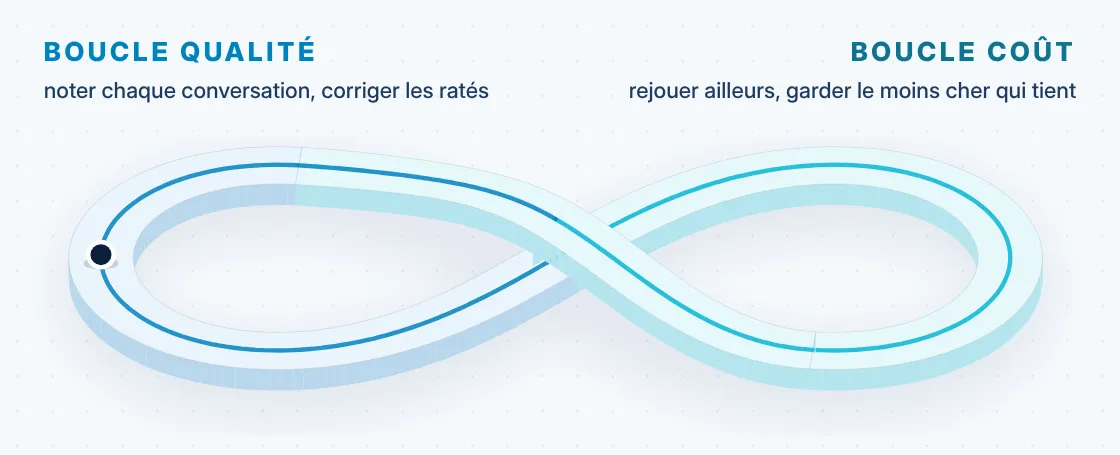
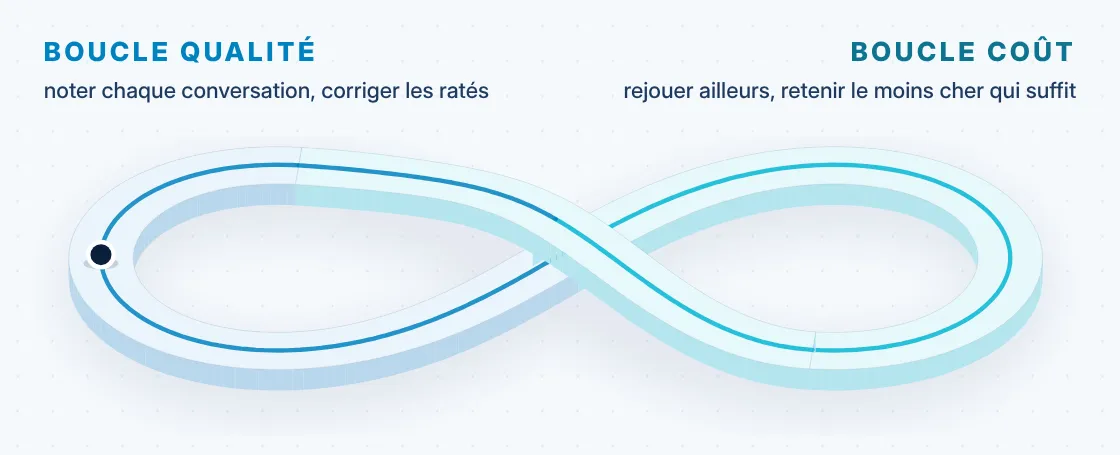
edit(software-factory): refresh the figures and rework translated-sounding French (#200)
Figures re-measured on 16 November; about thirty French sentences reworded; one label of the French two-loops visual changed.

Changed region(s): [[0.5312, 0.1846, 0.9688, 0.2462]]

diff --git a/src/posts/SoftwareFactory.ts b/src/posts/SoftwareFactory.ts
@@ -95,13 +95,14 @@ const englishContent: PostContent = {
 <p>That rule comes from an incident. An approval stated close to 1,800 tests, zero failures, green pipeline. In fact some twenty tests had been skipped and the run had failed. The reviewer noticed on his own, a few minutes later. No machine had seen it.</p>
 <p>Our documentation kept one line of it: a count of green tests says nothing about the files that never ran.</p>
 <blockquote><p>An approval is an opinion. A proof can be checked.</p></blockquote>
-<p>Over four weeks, close to 500 pull requests were merged. Three orders of magnitude over that same set:</p>
+<p>Over five weeks, more than 600 pull requests were merged. Three proportions over that set:</p>
 <ul>
-<li><strong>Three in four</strong> carry no recorded review on the platform.</li>
-<li><strong>Fewer than one in ten</strong> carry a review from another human account.</li>
-<li><strong>One in four</strong> carried a label through which someone kept a hand on the merge.</li>
+<li><strong>More than nine in ten</strong> were reviewed by no other human.</li>
+<li><strong>Close to two thirds</strong> carry no recorded review on the platform.</li>
+<li><strong>One in five</strong> carried a label through which someone kept a hand on the merge.</li>
 </ul>
-<p>These proportions do not add up to a whole. They answer three different questions. And I am not waving them around: three merges in four without a human reviewer is a fact about our process. Not about our code.</p>
+<p>The last week already changes the picture. The review done by an agent is now recorded on the platform: two merges in three carry one.</p>
+<p>These proportions do not add up to a whole. They answer different questions. And I am not waving them around: nine merges in ten without a human reviewer is a fact about how we work. It says nothing about the quality of the code.</p>
 <svg viewBox="0 0 640 322" xmlns="http://www.w3.org/2000/svg" role="img" aria-label="Six steps are automatic, from the specification to the development environment. Three decisions stay human, each attached to one step: arbitrate under review, override under merge, release under the development environment." class="diagram-svg diagram-wide">
 <text x="32" y="32" fill="currentColor" font-family="ui-sans-serif, system-ui, sans-serif" font-size="14.5" font-weight="600" opacity="0.55" letter-spacing="0.14em">SOLSTICE*, SINCE 14 OCTOBER</text>
 <text x="32" y="72" fill="currentColor" font-family="ui-sans-serif, system-ui, sans-serif" font-size="28" font-weight="650">Six steps, three decisions.</text>
@@ -201,14 +202,14 @@ const englishContent: PostContent = {
 <li><a target="_blank" rel="noopener noreferrer" href="https://simonwillison.net/2026/Feb/7/software-factory/">Simon Willison, "Software Factory" (7 February 2026)</a>: write-up of a visit to StrongDM. Keep the scenarios hidden from the agents. Discard the amounts the company reports, never cross-checked. Greenfield, three people, no outcome published since.</li>
 <li><a target="_blank" rel="noopener noreferrer" href="https://www.warp.dev/articles/self-improvement-loop-software-factory">Warp, on the improvement loop of a software factory (2026)</a>: the idea of two loops comes from there. It is a vendor selling the matching tooling. I take the thinking scheme and none of its numbers.</li>
 <li><a target="_blank" rel="noopener noreferrer" href="https://addyosmani.com/blog/comprehension-debt/">Addy Osmani, "Comprehension Debt" (2026)</a>: the name of the objection I answer. A practitioner's essay, not a measurement.</li>
-<li>Solstice*: the proof rule, the orders of magnitude on pull requests, the fourth-round blocks and the three decisions come from the repository, as read between early and mid-November 2026. Figures are rounded on purpose. Internal, no links: the codename is fictitious and the real project, its products and its vendor are anonymized.</li>
+<li>Solstice*: the proof rule, the orders of magnitude on pull requests, the fourth-round blocks and the three decisions come from the repository, as read on 16 November 2026. Figures are rounded on purpose. Internal, no links: the codename is fictitious and the real project, its products and its vendor are anonymized.</li>
 </ul>`
 }
 
 const frenchContent: PostContent = {
   title: "Software factory : d’où vient le mot, et ce que nous en faisons",
   description: "Le terme remonte à General Electric et à Hitachi, et chacune de ses résurrections a industrialisé ce qui entoure le programmeur. La version de l'ère des agents s'attaque au cycle de développement lui-même. Retour de terrain sur un ERP hospitalier régulé : l'histoire, la chaîne telle que nous l'avons dessinée, la partie qui tourne vraiment, et les limites d'une fusion sur preuve.",
-  html: `<div class="post-tldr"><p><strong>TL;DR</strong> « Software factory » est un mot de 1968, et il a déjà déçu plusieurs générations. Chaque usine a standardisé ce qui entoure le développeur : les outils, le procédé, les modèles, la chaîne de livraison. Aucune n'a touché au poste où l'on écrit le code. En 2026, c'est ce poste qui tombe. Le cycle de développement entier, le <abbr title="Software Development Life Cycle : le cycle de développement logiciel, du besoin à la livraison">SDLC</abbr>, devient une chaîne tenue par des agents. Sur <abbr title="Nom de code fictif : le projet réel, ses produits et son éditeur sont anonymisés.">Solstice*</abbr>, le milieu de cette chaîne tourne déjà : code, tests, revue, correction. Depuis le 14 octobre, plus personne n'approuve nos fusions. Une machine vérifie une preuve. Il nous reste trois décisions, et un métier : le besoin du client.</p></div>
+  html: `<div class="post-tldr"><p><strong>TL;DR</strong> « Software factory » est un mot de 1968, et il a déjà déçu plusieurs générations. Chaque usine a standardisé ce qui entoure le développeur : les outils, le procédé, les modèles, la chaîne de livraison. Aucune n'a touché au poste où l'on écrit le code. En 2026, ce sont les agents qui le prennent. Le cycle de développement entier, le <abbr title="Software Development Life Cycle : le cycle de développement logiciel, du besoin à la livraison">SDLC</abbr>, devient une chaîne tenue par des agents. Sur <abbr title="Nom de code fictif : le projet réel, ses produits et son éditeur sont anonymisés.">Solstice*</abbr>, le milieu de cette chaîne tourne déjà : code, tests, revue, correction. Depuis le 14 octobre, plus personne n'approuve nos fusions. Une machine vérifie une preuve. Il nous reste trois décisions, et un métier : le besoin du client.</p></div>
 <hr>
 <p>On me demande si la software factory est le nouveau mot à la mode. Non. C'est un mot de cinquante-huit ans, et il a déjà échoué plusieurs fois.</p>
 <p>Fin octobre, à <abbr title="BDX I/O : conférence technique annuelle à Bordeaux, tenue les 29 et 30 octobre 2026">BDX I/O</abbr>, il était dans toutes les conversations sur les agents. Deux semaines plus tard, j'en ai fait le fil du bilan d'année devant mon équipe.</p>
@@ -217,7 +218,7 @@ const frenchContent: PostContent = {
 <h2>D'où vient le mot</h2>
 <p>En 1968, <abbr title="Robert W. Bemer : informaticien américain, l'un des pères du code ASCII">R. W. Bemer</abbr>, ingénieur chez General Electric, propose une « software factory ». Son idée : réduire les écarts de productivité entre programmeurs par des outils standardisés et une base de mesures. La même année, <abbr title="M. Douglas McIlroy : chercheur des Bell Labs, à l'origine des tubes Unix">Doug McIlroy</abbr> plaide pour des composants logiciels produits en série.</p>
 <p>D'après l'historien <abbr title="Michael Cusumano : professeur au MIT, auteur de Japan's Software Factories (1991)">Michael Cusumano</abbr>, Hitachi ouvre en 1969 le premier site à porter ce nom. Les grands industriels japonais suivent. Aux États-Unis, System Development Corporation monte la sienne au milieu des années 1970. Elle s'éteint en moins de trois ans.</p>
-<p>Cusumano le résume ainsi : l'usine marchait pour des produits qui se ressemblent. Beaucoup moins pour l'inédit.</p>
+<p>Cusumano en tire un constat : l'usine fonctionnait pour des produits qui se ressemblent, beaucoup moins bien pour ce qui n'avait jamais été fait.</p>
 <p>En 2004, Microsoft reprend le mot. Jack Greenfield et Keith Short promettent d'assembler des applications à partir de modèles et de langages dédiés. Puis le <abbr title="DevOps : rapprochement du développement et de l'exploitation, outillé par l'intégration et le déploiement continus">DevOps</abbr> le recycle encore. En français, « usine logicielle » finit par désigner la chaîne d'intégration et de déploiement.</p>
 <svg viewBox="0 0 640 276" xmlns="http://www.w3.org/2000/svg" role="img" aria-label="De 1968 à 2026, chaque génération d'usine logicielle a standardisé autre chose : les outils, le procédé, les modèles, la chaîne de livraison. Le code restait écrit à la main jusqu'à la dernière, où des agents tiennent les postes." class="diagram-svg diagram-wide">
 <text x="32" y="32" fill="currentColor" font-family="ui-sans-serif, system-ui, sans-serif" font-size="14.5" font-weight="600" opacity="0.55" letter-spacing="0.14em">CE QUE CHAQUE USINE A STANDARDISÉ</text>
@@ -269,37 +270,38 @@ const frenchContent: PostContent = {
 <text x="128" y="385" fill="currentColor" font-family="ui-sans-serif, system-ui, sans-serif" font-size="13" opacity="0.7">agents</text>
 <text x="32" y="420" fill="currentColor" font-family="ui-sans-serif, system-ui, sans-serif" font-size="13" font-style="italic" opacity="0.6">1968, 1969 : Cusumano (1989)</text>
 </svg>
-<p>Quatre usines, le même angle mort. Elles ont tout industrialisé autour du programmeur. Aucune n'a touché au geste d'écrire.</p>
+<p>Quatre usines, et chaque fois la même limite.</p>
 <blockquote><p>Pendant près de soixante ans, l'usine a tout standardisé sauf le poste où l'on écrit.</p></blockquote>
 
 <h2>Ce que le mot désigne aujourd'hui</h2>
-<p>En 2026, c'est ce poste-là qui saute. Une usine logicielle est maintenant une chaîne où le besoin entre d'un côté et la livraison sort de l'autre. Entre les deux, des agents.</p>
+<p>En 2026, c'est justement ce poste que les agents occupent. Une usine logicielle est maintenant une chaîne où le besoin entre d'un côté et la livraison sort de l'autre. Entre les deux, tous les postes sont tenus par des agents.</p>
 <p>Le récit qui a relancé le mot est celui de <abbr title="StrongDM : éditeur américain de logiciels de gestion des accès">StrongDM</abbr>, en février. Trois ingénieurs, une règle : aucun humain n'écrit ni ne relit le code. Des scénarios cachés aux agents jugent le résultat. <abbr title="Simon Willison : développeur et auteur britannique, cocréateur du framework Django">Simon Willison</abbr>, qui a visité l'équipe, y voit un aperçu d'un futur possible. Il doute aussi qu'on puisse se passer de revue.</p>
-<p>Je garde le mécanisme : des scénarios que l'agent ne voit pas. Je laisse les chiffres. Personne ne les a recoupés.</p>
+<p>J'en retiens le mécanisme, ces scénarios que l'agent ne voit pas. Je n'en retiens pas les chiffres, que personne n'a recoupés.</p>
 <p>Voici la chaîne telle que je l'ai dessinée pour mon équipe. Les étapes du cycle de développement, dans l'ordre, sur un seul convoyeur.</p>
 <picture class="iso-scene"><source media="(prefers-reduced-motion: reduce)" srcset="/visuals/software-factory/factory-fr-still.webp"><img src="/visuals/software-factory/factory-fr.webp" alt="Scène isométrique animée d'une chaîne logicielle : le besoin humain entre à gauche, un lot traverse les postes spec, code, tests et revue, est refusé, repart par la voie de correction, repasse les tests et la revue, puis est livré au client." width="1120" height="620" loading="lazy" decoding="async" data-gallery-image="true"></picture>
 <p>Le lot porte trois cases : S pour la spécification, C pour le code, T pour les tests. Chacune se remplit au poste qui la produit. Le besoin, lui, n'est pas un poste. C'est l'entrée, et elle reste humaine.</p>
-<p>Regardez la voie bleue. Elle compte plus que le convoyeur. Un lot refusé en revue ne part pas « avec réserve ». Il retourne au code, repasse les mêmes tests, puis une nouvelle revue.</p>
-<blockquote><p>Une correction invalide les preuves. On les rejoue, on ne les recopie pas.</p></blockquote>
-<p>Une telle chaîne doit aussi améliorer ses propres postes. Deux boucles suffisent à le dire.</p>
-<picture class="iso-scene"><source media="(prefers-reduced-motion: reduce)" srcset="/visuals/software-factory/loops-fr-still.webp"><img src="/visuals/software-factory/loops-fr.webp" alt="Symbole infini isométrique animé : à gauche la boucle qualité, qui note chaque conversation et corrige les ratés ; à droite la boucle coût, qui rejoue le travail ailleurs et garde le moins cher qui tient. Un point parcourt les deux boucles sans fin." width="1120" height="455" loading="lazy" decoding="async" data-gallery-image="true"></picture>
-<p>La boucle qualité note le travail des agents et repart des ratés pour corriger leurs consignes. La boucle coût rejoue des tâches connues sur un autre modèle et garde le moins cher qui tient. Aucune ne corrige le logiciel. Elles corrigent l'agent.</p>
+<p>Regardez la voie bleue : c'est elle qui compte. Un lot refusé en revue n'est jamais livré « sous réserve ». Il retourne au code, repasse les mêmes tests, puis une nouvelle revue.</p>
+<blockquote><p>Après une correction, les preuves ne valent plus rien. Il faut les rejouer.</p></blockquote>
+<p>Une chaîne pareille doit aussi s'améliorer elle-même. Deux boucles s'en chargent.</p>
+<picture class="iso-scene"><source media="(prefers-reduced-motion: reduce)" srcset="/visuals/software-factory/loops-fr-still.webp"><img src="/visuals/software-factory/loops-fr.webp" alt="Symbole infini isométrique animé : à gauche la boucle qualité, qui note chaque conversation et corrige les ratés ; à droite la boucle coût, qui rejoue le travail ailleurs et retient le moins cher qui suffit. Un point parcourt les deux boucles sans fin." width="1120" height="455" loading="lazy" decoding="async" data-gallery-image="true"></picture>
+<p>La boucle qualité note le travail des agents et repart des ratés pour corriger leurs consignes. La boucle coût rejoue des tâches connues sur un autre modèle et retient le moins cher de ceux qui font le travail. Ni l'une ni l'autre ne corrige le logiciel : elles corrigent l'agent.</p>
 <p>En mars, j'écrivais que le SDLC était mort. Je maintiens. Ses étapes sont toutes sur ce dessin. Ce qui est mort, ce sont les passages de relais entre personnes, et l'attente à chacun d'eux.</p>
 
 <h2>Ce que nous en faisons</h2>
 <p>Soyons clairs : ce dessin est une cible. Sur Solstice*, un <abbr title="Enterprise Resource Planning : la colonne vertébrale administrative d'un groupement hospitalier">ERP</abbr> hospitalier, c'est le milieu de la chaîne qui tourne. Des agents écrivent le code et ses tests. La chaîne d'intégration les exécute. Un agent relit, dans une session séparée.</p>
-<p>Les deux bouts ne tournent pas encore. La spécification tirée des comptes rendus de réunion est un essai. La livraison automatique s'arrête à l'environnement de développement.</p>
+<p>Les deux extrémités ne fonctionnent pas encore. La spécification tirée des comptes rendus de réunion est un essai. La livraison automatique s'arrête à l'environnement de développement.</p>
 <p>Le vrai basculement date du 14 octobre. Ce jour-là, la branche principale a cessé d'exiger une approbation. À la place, un contrôle obligatoire réclame une preuve de revue. La preuve cite le <abbr title="Commit : un état du code enregistré, daté et identifié dans l'historique">commit</abbr> relu et une exécution de la chaîne d'intégration. La machine vérifie elle-même que cette exécution existe, porte sur ce code et s'est terminée avec succès.</p>
-<p>Cette règle vient d'un incident. Une approbation annonçait près de 1 800 tests, zéro échec, chaîne verte. En réalité, une vingtaine de tests avaient été sautés et l'exécution avait échoué. Le relecteur s'en est aperçu seul, quelques minutes plus tard. Aucune machine ne l'avait vu.</p>
-<p>Notre documentation en a gardé une ligne : un décompte de tests verts n'atteste rien sur les fichiers qui n'ont pas tourné.</p>
+<p>Cette règle vient d'un incident. Une approbation annonçait près de 1 800 tests, zéro échec, chaîne verte. En réalité, une vingtaine de tests avaient été sautés et l'exécution avait échoué. Le relecteur s'en est aperçu seul, quelques minutes plus tard. Aucun contrôle automatique ne l'avait détecté.</p>
+<p>Nous en avons tiré une règle écrite : un nombre de tests verts ne dit rien des fichiers qui n'ont pas été exécutés.</p>
 <blockquote><p>Une approbation est un avis. Une preuve se vérifie.</p></blockquote>
-<p>En quatre semaines, près de 500 demandes de fusion ont été acceptées. Trois ordres de grandeur, sur ce même ensemble :</p>
+<p>En cinq semaines, plus de 600 demandes de fusion ont été acceptées. Sur cet ensemble, trois proportions :</p>
 <ul>
-<li><strong>Les trois quarts</strong> n'ont aucune revue enregistrée sur la plateforme.</li>
-<li><strong>Moins d'une sur dix</strong> porte la revue d'un autre compte humain.</li>
-<li><strong>Une sur quatre</strong> portait une étiquette par laquelle quelqu'un gardait la main sur la fusion.</li>
+<li><strong>Plus de neuf sur dix</strong> n'ont été relues par aucun autre humain.</li>
+<li><strong>Près des deux tiers</strong> n'ont aucune revue enregistrée sur la plateforme.</li>
+<li><strong>Une sur cinq</strong> portait une étiquette par laquelle quelqu'un gardait la main sur la fusion.</li>
 </ul>
-<p>Ces proportions ne s'additionnent pas. Elles répondent à trois questions différentes. Et je ne les brandis pas : trois fusions sur quatre sans relecteur humain, c'est un fait sur notre processus. Pas sur notre code.</p>
+<p>La dernière semaine change déjà le tableau. La revue faite par un agent s'enregistre maintenant sur la plateforme : deux fusions sur trois en portent une.</p>
+<p>Ces proportions ne s'additionnent pas, elles répondent à des questions différentes. Je ne les brandis pas non plus. Neuf fusions sur dix sans relecteur humain, cela décrit notre façon de travailler. Cela ne dit rien de la qualité du code.</p>
 <svg viewBox="0 0 640 322" xmlns="http://www.w3.org/2000/svg" role="img" aria-label="Six étapes sont automatiques, de la spécification à l'environnement de développement. Trois décisions restent humaines, chacune accrochée à une étape : trancher sous la revue, passer outre sous la fusion, publier sous l'environnement de développement." class="diagram-svg diagram-wide">
 <text x="32" y="32" fill="currentColor" font-family="ui-sans-serif, system-ui, sans-serif" font-size="14.5" font-weight="600" opacity="0.55" letter-spacing="0.14em">SOLSTICE*, DEPUIS LE 14 OCTOBRE</text>
 <text x="32" y="72" fill="currentColor" font-family="ui-sans-serif, system-ui, sans-serif" font-size="28" font-weight="650">Six étapes, trois décisions.</text>
@@ -362,29 +364,29 @@ const frenchContent: PostContent = {
 <text x="32" y="478" fill="currentColor" font-family="ui-sans-serif, system-ui, sans-serif" font-size="13" opacity="0.75">publier : la version, et tout</text>
 <text x="32" y="496" fill="currentColor" font-family="ui-sans-serif, system-ui, sans-serif" font-size="13" opacity="0.75">passage au-delà du dev</text>
 </svg>
-<p>Un agent ne prend aucune de ces trois décisions. Seul l'environnement de développement reçoit le code sans geste humain. Tout passage à un environnement suivant se déclenche à la main.</p>
+<p>Un agent ne prend aucune de ces trois décisions. Seul l'environnement de développement reçoit le code sans intervention humaine. Pour aller plus loin, quelqu'un doit lancer le déploiement.</p>
 <p>Trancher n'a rien de théorique. Au quatrième tour de revue refusé, la fusion se bloque jusqu'à la décision d'un développeur. Début novembre, ce cas ne s'était jamais présenté. Mi-novembre, il s'est présenté une dizaine de fois en trois jours. À chaque fois, quelqu'un a regardé et décidé : continuer, ou changer d'approche.</p>
 
 <h2>Là où la preuve reste une déclaration</h2>
-<p>Un lecteur hostile attaquera ici. Il aura raison sur trois points.</p>
-<p><strong>Le relecteur peut être le même modèle.</strong> Même agent, même compte, autre session. Un contexte neuf réduit l'ancrage. Il ne prouve aucune diversité de jugement. La machine vérifie que la session de revue diffère de celles des commits. Elle ne vérifie pas que la revue a eu lieu ailleurs que dans un formulaire.</p>
-<p><strong>Les décomptes de tests sont encore tapés.</strong> Le contrôle établit que l'exécution citée est verte sur ce commit. Il ne recoupe pas le nombre de tests sautés. La règle née de l'incident n'attraperait donc que la moitié de l'incident.</p>
-<p><strong>La relecture de sécurité tient en une ligne.</strong> Le niveau de risque est solide : il se calcule depuis les chemins modifiés, et une proposition ne peut pas l'abaisser. Au niveau élevé, la preuve doit contenir une relecture de sécurité. C'est l'agent relecteur qui l'écrit.</p>
-<p>Reste l'objection qui a un nom, la dette de compréhension : nous comprenons moins le code livré. C'est vrai. Et je pense que notre place n'est plus là. Comprendre le code ligne à ligne est désormais la responsabilité des agents. Il y aura toujours un agent pour répondre au besoin technique. Notre responsabilité est de comprendre le besoin métier, et la façon de le résoudre. Les tests sur site diront si j'ai raison.</p>
-<p>Je dois aussi une correction à mon billet d'août. J'y décrivais un périmètre gardé humain exprès, la surface joignable de l'extérieur. J'écrivais que cette erreur-là devait coûter une conversation. La règle exige toujours un non-auteur sur ce périmètre. Ce non-auteur peut aujourd'hui être un agent. La conversation est devenue facultative. Je l'assume, et je regarde ce que ça donne.</p>
+<p>C'est ici qu'un lecteur sceptique trouvera à redire. Sur trois points, il aura raison.</p>
+<p><strong>Le relecteur peut être le même modèle.</strong> Même agent, même compte, autre session. Repartir d'un contexte vierge limite le biais d'ancrage, sans garantir un regard différent. La machine vérifie que la session de revue n'est pas celle qui a écrit le code. Elle ne vérifie pas que la revue a réellement eu lieu.</p>
+<p><strong>Les nombres de tests sont encore saisis à la main.</strong> Le contrôle établit que l'exécution citée est verte sur ce commit. Il ne recoupe pas le nombre de tests sautés. Notre règle ne détecterait donc que la moitié de l'incident qui l'a fait naître.</p>
+<p><strong>La relecture de sécurité tient en une ligne.</strong> Le niveau de risque, lui, est fiable : il est calculé à partir des fichiers modifiés, et une demande de fusion ne peut pas l'abaisser. Au niveau élevé, la preuve doit contenir une relecture de sécurité. C'est l'agent relecteur qui l'écrit.</p>
+<p>Reste une objection, qui porte un nom : la dette de compréhension. Nous comprenons moins le code livré. C'est vrai. Et je pense que notre place n'est plus là. Comprendre le code ligne à ligne est désormais la responsabilité des agents. Il y aura toujours un agent pour répondre au besoin technique. Notre responsabilité est de comprendre le besoin métier, et la façon de le résoudre. Les tests sur site diront si j'ai raison.</p>
+<p>Je dois aussi une correction à mon billet d'août. J'y décrivais un périmètre gardé humain exprès, la surface joignable de l'extérieur. J'écrivais qu'une erreur à cet endroit devait obliger deux personnes à se parler. La règle exige toujours un non-auteur sur ce périmètre. Ce non-auteur peut aujourd'hui être un agent. Deux personnes ne se parlent donc plus forcément. Je l'assume, et je regarde ce que ça donne.</p>
 
 <h2>Ce qui reste aux humains</h2>
 <blockquote><p>L'important, c'est de comprendre le besoin métier et comment le résoudre. Le reste n'a plus d'importance.</p></blockquote>
 <p>Dire ce qu'il faut construire, pourquoi, et dans quel ordre. Sur le dessin, c'est le chariot à gauche. Aucun agent ne le pousse.</p>
 <p>Les trois décisions : trancher, passer outre, publier.</p>
-<p>Comprendre le système, pas chaque ligne. Ce que le logiciel doit garantir, et comment on le prouve. Le détail du code est l'affaire des agents.</p>
-<p>Éprouver sur site. Les premiers tests chez un établissement sont en cours. Je n'ai pas encore de chiffre à donner. Ce sont eux qui diront ce que vaut une fusion sans relecteur humain.</p>
-<p>Et l'inédit. C'est là que les usines de 1969 ont calé, d'après Cusumano. Rien ne me prouve que celle de 2026 fera mieux quand le besoin lui-même est flou.</p>
-<p>Deux questions restent ouvertes. Faut-il livrer tous les clients sur un même flot, en activant les fonctions par drapeaux ? Et la demande de fusion est-elle encore le bon objet, quand des agents en ouvrent plus vite qu'une file ne se vide ?</p>
+<p>Comprendre le système dans son ensemble : ce que le logiciel doit garantir, et comment on le prouve. Le détail du code est l'affaire des agents.</p>
+<p>Mettre le logiciel à l'épreuve sur site. Les premiers tests chez un établissement sont en cours. Je n'ai pas encore de chiffre à donner. Ce sont eux qui diront ce que vaut une fusion sans relecteur humain.</p>
+<p>Et ce qui n'a jamais été fait. C'est là que les usines de 1969 ont échoué, d'après Cusumano. Rien ne me dit que celle de 2026 fera mieux quand le besoin lui-même est flou.</p>
+<p>Deux questions restent ouvertes. Faut-il livrer tous les clients sur un même flot, en activant les fonctions par drapeaux ? Et la demande de fusion est-elle encore le bon objet, quand des agents en ouvrent plus vite qu'on ne peut les traiter ?</p>
 
 <h2>Quoi faire lundi matin</h2>
 <ol>
-<li><strong>Dessinez votre chaîne, poste par poste.</strong> Marquez ce qui tourne et ce qui est une cible. Le dessin honnête est souvent plus court que le discours.</li>
+<li><strong>Dessinez votre chaîne, poste par poste.</strong> Marquez ce qui tourne et ce qui est une cible. Un schéma honnête est souvent plus modeste que le discours.</li>
 <li><strong>Remplacez l'approbation par une preuve.</strong> Elle cite un commit et une exécution, et une machine vérifie les deux.</li>
 <li><strong>Écrivez ce qui reste déclaratif.</strong> Notre documentation le fait, noir sur blanc. C'est la partie que je relis le plus.</li>
 <li><strong>Bornez la boucle de correction.</strong> Un nombre de tours, puis un humain. Chez nous, la limite sert.</li>
@@ -395,11 +397,11 @@ const frenchContent: PostContent = {
 <h2>Sources</h2>
 <ul>
 <li>Michael A. Cusumano, « The Software Factory: A Historical Interpretation », <em>IEEE Software</em>, mars 1989, et <a target="_blank" rel="noopener noreferrer" href="https://dspace.mit.edu/handle/1721.1/47992">« Factory Concepts and Practices in Software Development: An Historical Overview »</a> (MIT) : Bemer en 1968, Hitachi en 1969, l'usine de System Development Corporation et sa fin. Travail d'historien, sur archives et entretiens. C'est la source de toute la première partie.</li>
-<li>Jack Greenfield et Keith Short, <em>Software Factories: Assembling Applications with Patterns, Models, Frameworks, and Tools</em> (Wiley, 2004) : la version Microsoft du mot. Un livre d'éditeur d'outils : à lire comme une promesse, pas comme un bilan.</li>
+<li>Jack Greenfield et Keith Short, <em>Software Factories: Assembling Applications with Patterns, Models, Frameworks, and Tools</em> (Wiley, 2004) : la version Microsoft du mot. C'est le livre d'un éditeur d'outils, à lire comme une promesse.</li>
 <li><a target="_blank" rel="noopener noreferrer" href="https://simonwillison.net/2026/Feb/7/software-factory/">Simon Willison, « Software Factory » (7 février 2026)</a> : compte rendu d'une visite chez StrongDM. À garder : les scénarios cachés aux agents. À laisser : les montants déclarés par l'entreprise, jamais recoupés. Projet neuf, trois personnes, aucun résultat publié depuis.</li>
-<li><a target="_blank" rel="noopener noreferrer" href="https://www.warp.dev/articles/self-improvement-loop-software-factory">Warp, sur la boucle d'amélioration d'une software factory (2026)</a> : l'idée des deux boucles vient de là. C'est un éditeur qui vend l'outillage correspondant. Je reprends le schéma de pensée, aucun de ses chiffres.</li>
-<li><a target="_blank" rel="noopener noreferrer" href="https://addyosmani.com/blog/comprehension-debt/">Addy Osmani, « Comprehension Debt » (2026)</a> : le nom de l'objection à laquelle je réponds. Un essai de praticien, pas une mesure.</li>
-<li>Solstice* : la règle de preuve, les ordres de grandeur sur les demandes de fusion, les blocages au quatrième tour et les trois décisions viennent du dépôt, relevés entre début et mi-novembre 2026. Les chiffres sont arrondis exprès. Interne, sans lien : le nom de code est fictif et le projet réel, ses produits et son éditeur sont anonymisés.</li>
+<li><a target="_blank" rel="noopener noreferrer" href="https://www.warp.dev/articles/self-improvement-loop-software-factory">Warp, sur la boucle d'amélioration d'une software factory (2026)</a> : l'idée des deux boucles vient de là. C'est un éditeur qui vend l'outillage correspondant. J'en reprends l'idée, sans les chiffres.</li>
+<li><a target="_blank" rel="noopener noreferrer" href="https://addyosmani.com/blog/comprehension-debt/">Addy Osmani, « Comprehension Debt » (2026)</a> : le nom de l'objection à laquelle je réponds. Un essai de praticien, sans mesure à l'appui.</li>
+<li>Solstice* : la règle de preuve, les ordres de grandeur sur les demandes de fusion, les blocages au quatrième tour et les trois décisions viennent du dépôt, relevés le 16 novembre 2026. Les chiffres sont arrondis exprès. Interne, sans lien : le nom de code est fictif et le projet réel, ses produits et son éditeur sont anonymisés.</li>
 </ul>`
 }
 

diff --git a/SOFTWARE-FACTORY-MEETING-2026-11-16.md b/SOFTWARE-FACTORY-MEETING-2026-11-16.md
@@ -53,6 +53,9 @@ After reading the first draft, the author overruled the first three:
 - The fourth-round block is not theoretical. Measured on the repository's label events: never posed before 14 November, then 11 times on 8 pull requests between 14 and 16 November, each lifted by a developer. The speaker notes dated 9 November predate the first case.
 - The prose is rewritten in the author's voice, calibrated on `sdlc-is-dead`: direct address, short assertive sentences, fewer hedges.
 
+- Figures refreshed on 16 November from the repository: about 640 pull requests merged since 14 October; 93 % with no review from another human, 64 % with no recorded review, 22 % with the keep-control label. Over the last week, two merges in three carry a review published by an agent or an automated tool. The earlier window (14 October to 9 November) reproduces the talk's figures.
+- French pass against translated-sounding phrasing: about thirty sentences reworded, one label of the two-loops visual changed.
+
 ## Follow-ups for the author
 
 - Read both languages on `/drafts`, then delete `draft: true` to publish.
